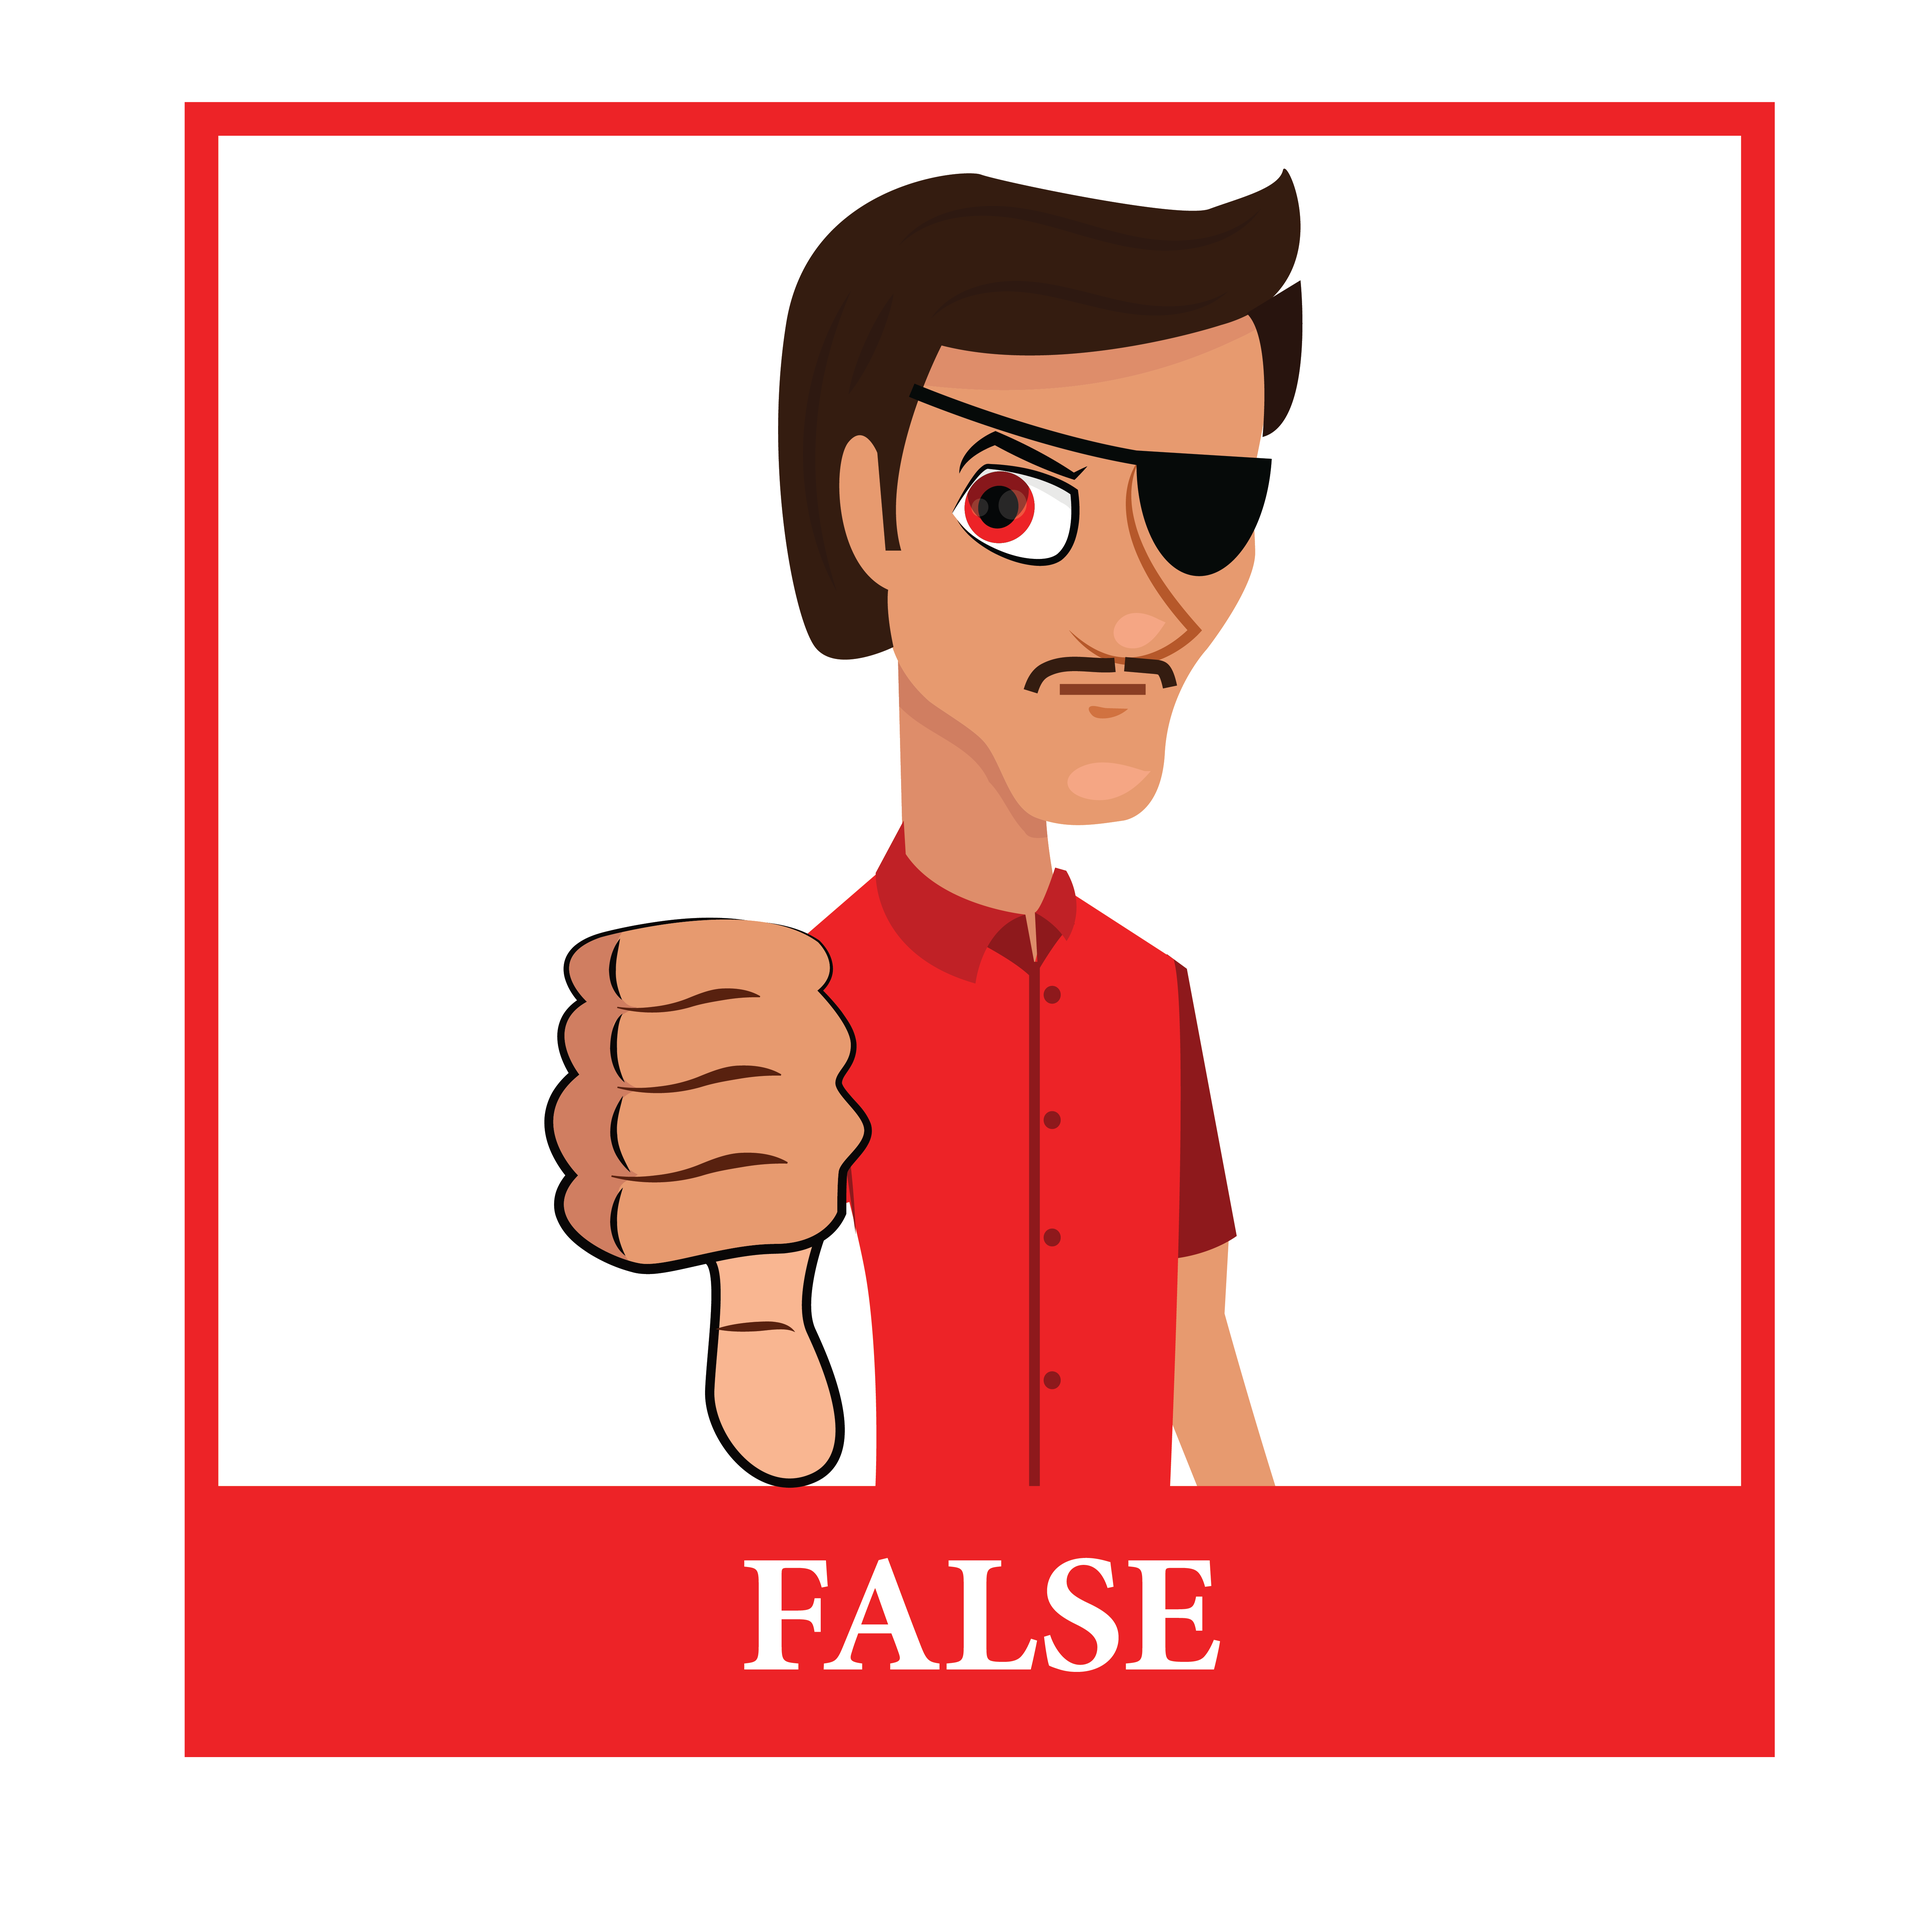
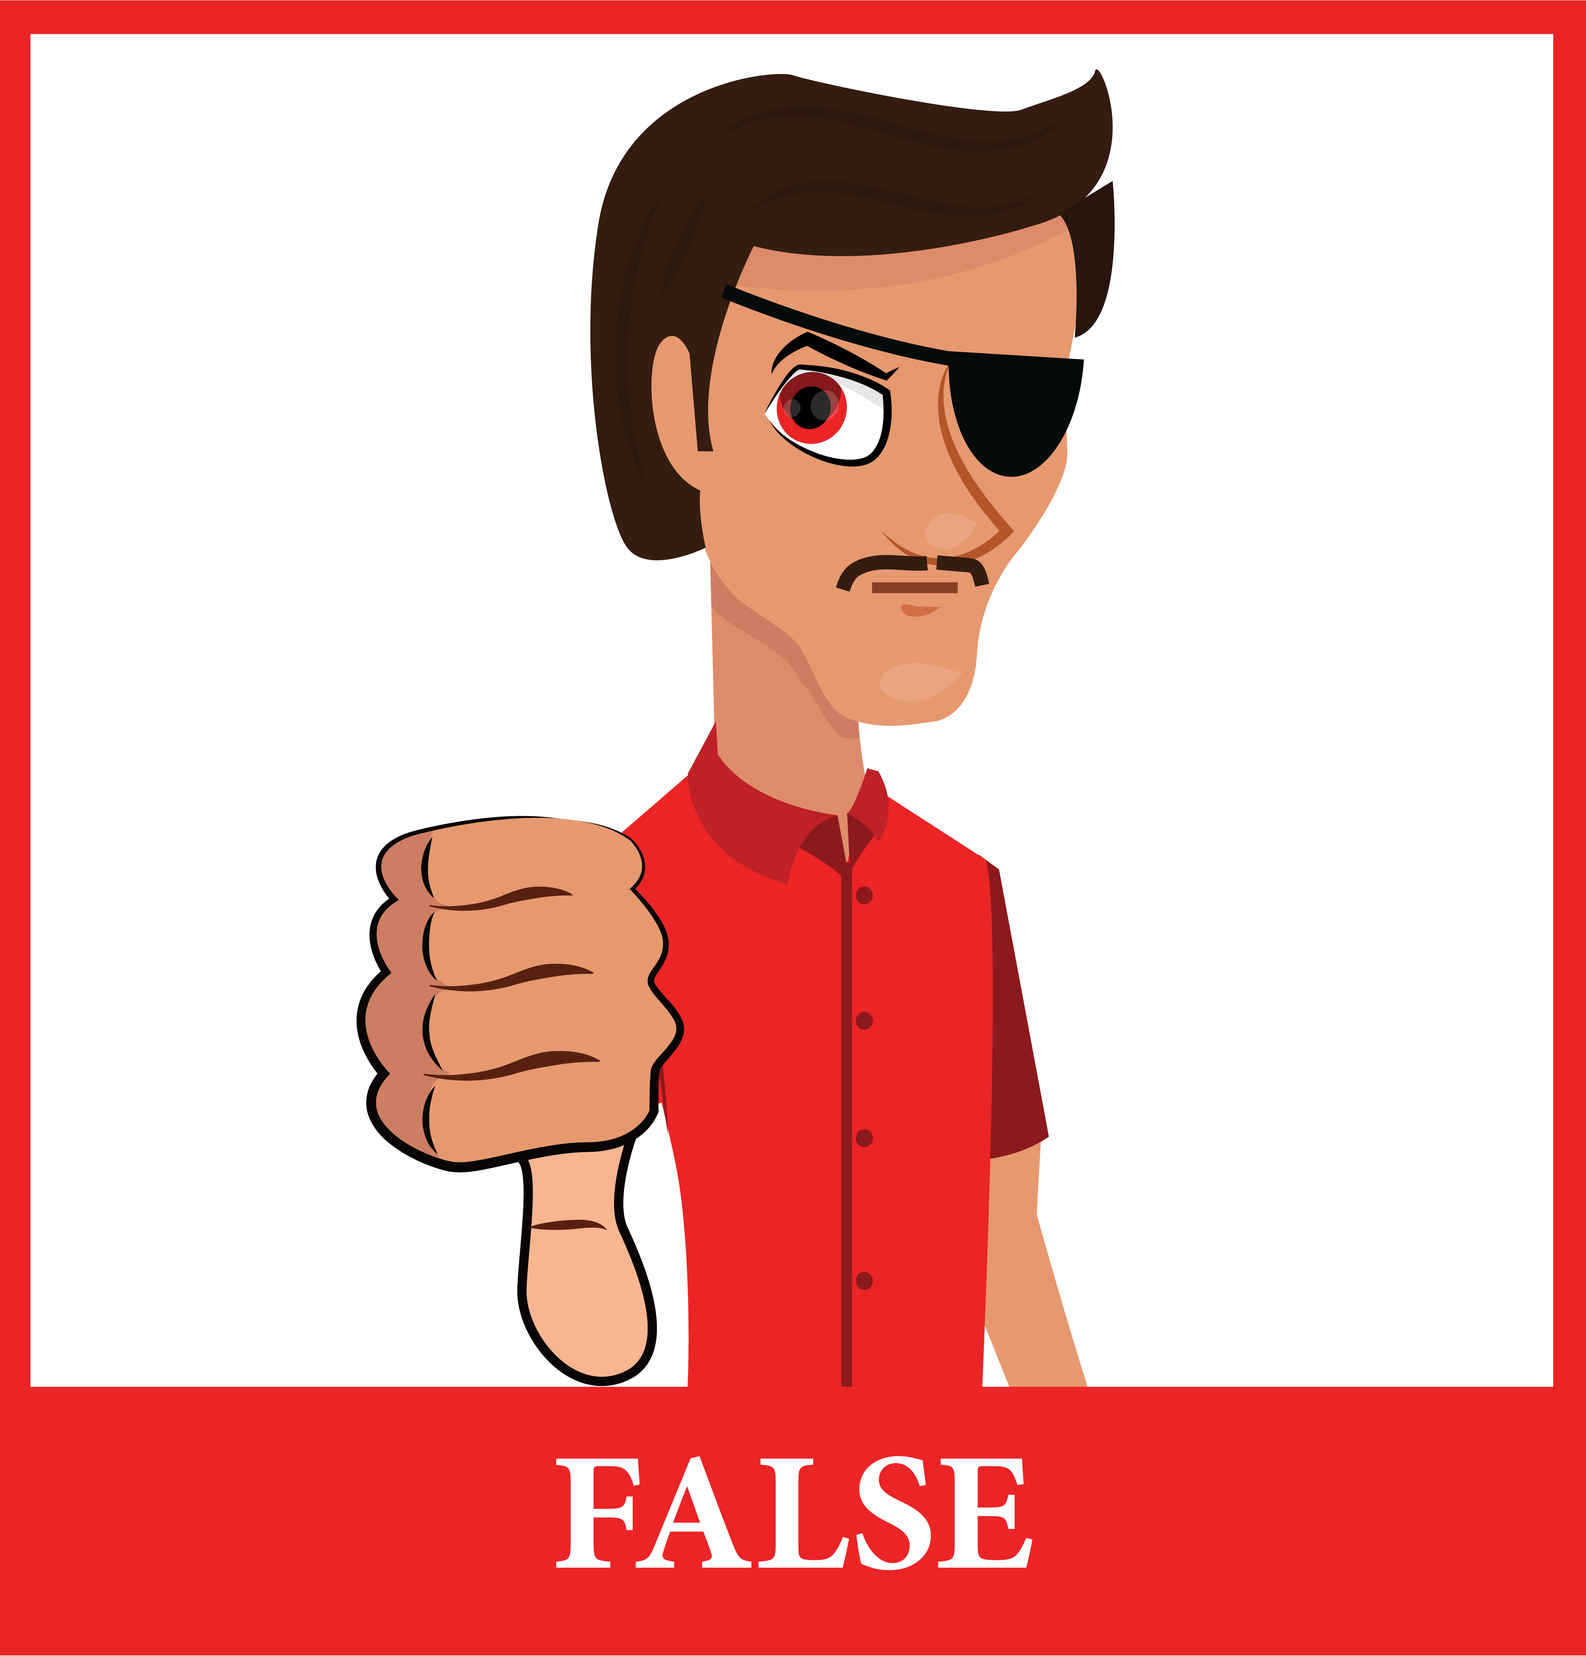
removed spacing around the rating images, added a sample factcheck widget

diff --git a/pages/factcheck/_slug/index.vue b/pages/factcheck/_slug/index.vue
@@ -1,11 +1,12 @@
 <template>
   <div>
+
     <section class="factcheck-detail">
       <div class="columns">
         <div 
-          class="column is-four-fifths is-full-mobile" 
+          class="column is-four-fifths is-full-mobile "
           style="float:left;">
-          <div class="column is-full has-text-centered">
+          <div class="column is-full has-text-centered is-paddingless" style="margin-bottom: 1rem">
             <div class="card">
               <div class="card-content">
                 <h1 class="title is-size-5 is-size-4-tablet is-size-3-desktop is-spaced is-2 has-text-weight-bold">{{ factchecks[0].sub_title }}</h1>
@@ -27,12 +28,48 @@
               </div>
             </div>
           </div>
+          <div class="card column is-full" style="background-color: #f5faff;">
+            <div class="columns">
+              <div class="column is-one-fifth">
+                <div class="card-image">
+                  <figure class="image is-4by3">
+                    <img src="https://versions.bulma.io/0.7.0/images/placeholders/1280x960.png" alt="Placeholder image">
+                  </figure>
+                </div>
+              </div>
+              <div class="column is-three-fifths">
+                <div class="card-content">
+                  <div class="media">
+                    <div class="media-content">
+                      <p class="title is-5">John Smith</p>
+                      <p class="subtitle is-6">@johnsmith</p>
+                    </div>
+                  </div>
+
+                  <div class="content">
+                    Lorem ipsum dolor sit amet, consectetur adipiscing elit.
+                    Phasellus nec iaculis mauris. <a>@bulmaio</a>.
+                    <a href="#">#css</a> <a href="#">#responsive</a>
+                    <br>
+                    <time datetime="2016-1-1">11:09 PM - 1 Jan 2016</time>
+                  </div>
+                </div>
+              </div>
+              <div class="column is-one-fifth">
+                <div class="card-image">
+                  <figure class="image is-4by3">
+                    <img src="https://versions.bulma.io/0.7.0/images/placeholders/1280x960.png" alt="Placeholder image">
+                  </figure>
+                </div>
+              </div>
+            </div>
+          </div>
           <div class="column is-full">
             <!-- CLAIM WIDGET -->
             <div 
               v-for="(claim, index) in factchecks[0].claims" 
               :key="index" 
-              class="box" 
+              class="box"
               style="background-color: #f5faff;">
               <div 
                 :id="'claim'+(index+1)" 
